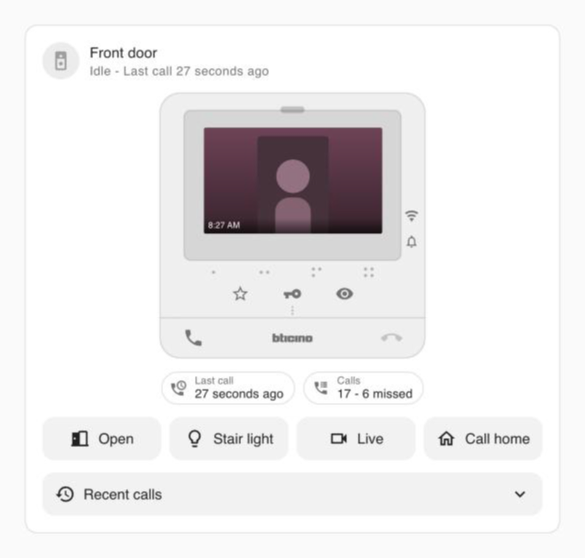
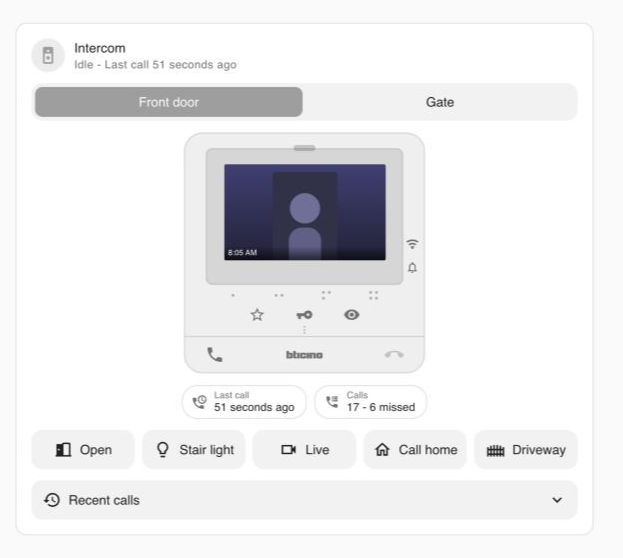
docs: redo the screenshots after the review changes
The old ones predate the tabs, the full-width snapshot while ringing,
the free actions and the default layout without a drawing, so they no
longer show what the card does. A seventh image covers the panel
layout, now that the drawing is opt-in and worth showing on its own.

diff --git a/README.md b/README.md
@@ -128,6 +128,11 @@ the sections grid without configuration.
 
 <img src="docs/images/card-100x-idle.png" width="420" alt="The card at rest"> <img src="docs/images/card-100x-ringing.png" width="420" alt="The card while the intercom rings">
 
+The default layout carries no drawing, so it suits a 300X or an EOS as well; `panel` and `device`
+add the Classe 100X for whoever has one.
+
+<img src="docs/images/card-100x-panel.png" width="420" alt="The panel layout, with a small drawing"> <img src="docs/images/card-100x-device.png" width="420" alt="The device layout">
+
 ```yaml
 type: custom:bticino-100x-card
 device_id: 1a2b3c4d5e6f7a8b9c0d1e2f3a4b5c6d
@@ -193,7 +198,7 @@ the card works in full except that list, which stays empty.
 card picks the call up on its own, then removes the parameter. Only the first card on the page
 acts, and only on a camera of its own device, so the card above can still take a link meant for it.
 
-<img src="docs/images/card-100x-device.png" width="400" alt="The device layout"> <img src="docs/images/card-100x-dark.png" width="400" alt="The card in the dark theme">
+<img src="docs/images/card-100x-dark.png" width="420" alt="The card in the dark theme">
 
 ### Intercom Notification Blueprint
 
